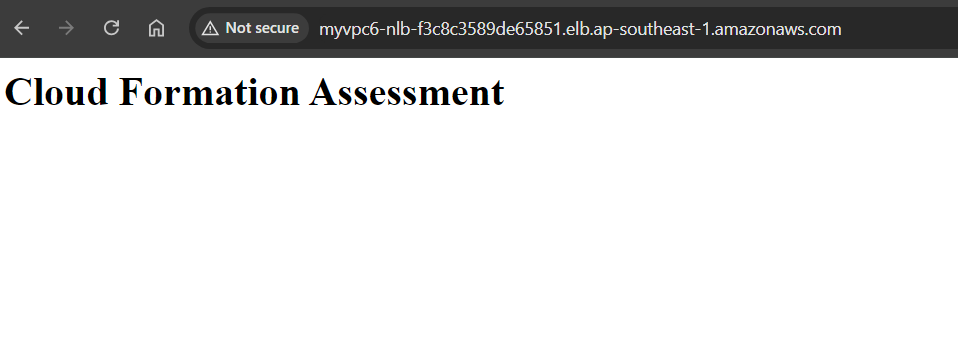
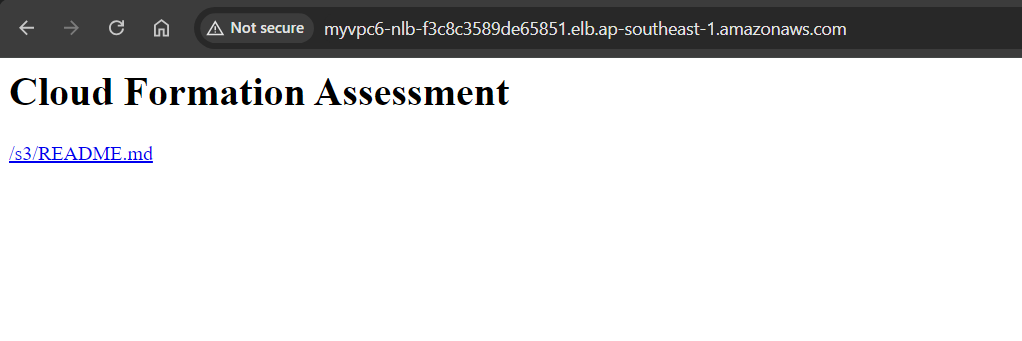
readme

diff --git a/result-01/README.md b/result-01/README.md
@@ -6,3 +6,4 @@
 | ![rds-ssm](rds-ssm.png)         | ![rds-dbeaver](rds-dbeaver.png)         |
 
 ![nlb-browser](nlb-browser.png)
+![cloudfront-nlb](cloudfront-nlb.png)
